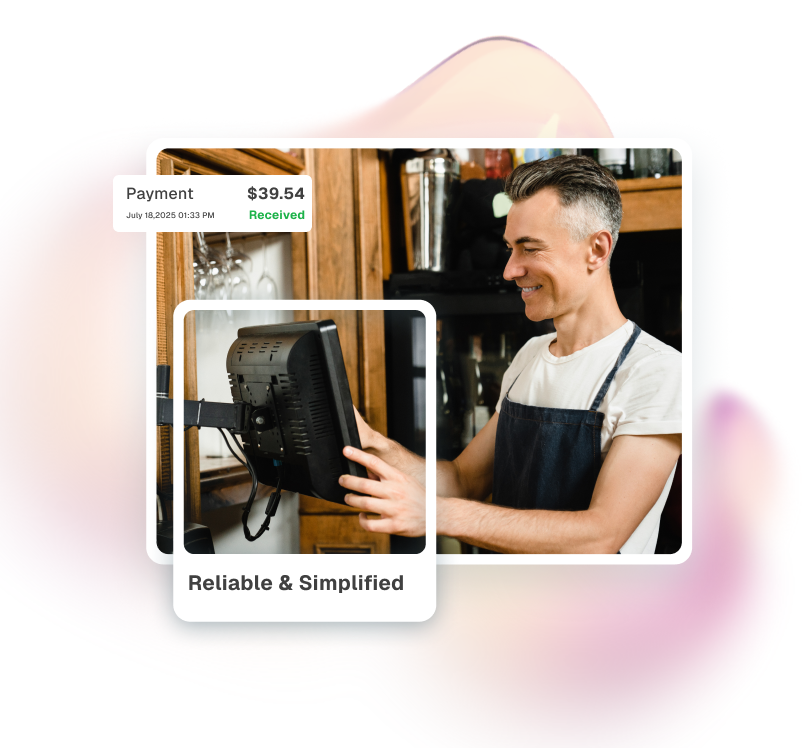
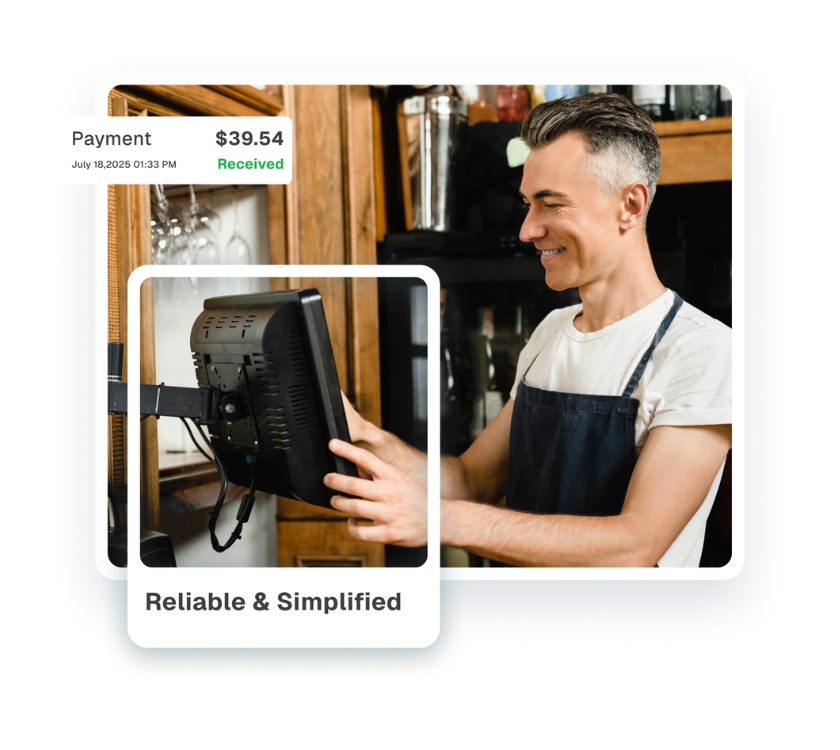
Fix React rendering crashes on missing DB data and remove conflicting CSS shadows

diff --git a/src/components/Home/ScrollSection.tsx b/src/components/Home/ScrollSection.tsx
@@ -156,18 +156,12 @@ const FeatureStrip: React.FC<{ feature: Feature; reverse: boolean; onCTA: () => 
     <div
       ref={ref}
       className={`flex flex-col gap-10 items-center py-8 lg:py-12 ${reverse ? 'lg:flex-row-reverse' : 'lg:flex-row'}`}
-      style={{
-        opacity: visible ? 1 : 0,
-        transform: visible ? 'translateY(0px)' : 'translateY(60px)',
-        transition: `opacity 0.8s ease-out, transform 0.8s ease-out`,
-        transitionDelay: visible ? '0ms' : '0ms',
-      }}
     >
       {/* ── Image ── */}
       <div className="w-full lg:w-1/2 flex-shrink-0"
         style={{
           opacity: visible ? 1 : 0,
-          transform: visible ? 'translateX(0px) scale(1)' : `translateX(${reverse ? '40px' : '-40px'}) scale(0.96)`,
+          transform: visible ? 'translateY(0px) translateX(0px) scale(1)' : `translateY(60px) translateX(${reverse ? '40px' : '-40px'}) scale(0.96)`,
           transition: 'opacity 0.9s ease-out, transform 0.9s ease-out',
           transitionDelay: visible ? '100ms' : '0ms',
         }}
@@ -193,24 +187,10 @@ const FeatureStrip: React.FC<{ feature: Feature; reverse: boolean; onCTA: () => 
             alt={feature.imageAlt}
             className={`relative w-full h-auto object-contain img-float-${index}`}
             style={{
-              mixBlendMode: 'multiply',
               ...(index === 4 || index === 5 ? {
                 border: '3px solid white',
                 borderRadius: '20px',
               } : {}),
-              filter: index === 0
-                ? 'drop-shadow(0 32px 48px rgba(249,110,77,0.18)) drop-shadow(0 8px 20px rgba(99,102,241,0.10))'
-                : index === 1
-                ? 'drop-shadow(0 24px 40px rgba(139,92,246,0.20)) drop-shadow(0 6px 16px rgba(139,92,246,0.10))'
-                : index === 2
-                ? 'drop-shadow(0 24px 40px rgba(236,72,153,0.18)) drop-shadow(0 6px 16px rgba(249,168,212,0.12))'
-                : index === 3
-                ? 'drop-shadow(0 24px 40px rgba(56,189,248,0.22)) drop-shadow(0 6px 16px rgba(14,165,233,0.14))'
-                : index === 4
-                ? 'drop-shadow(0 24px 40px rgba(234,179,8,0.20)) drop-shadow(0 6px 16px rgba(234,179,8,0.12))'
-                : index === 5
-                ? 'drop-shadow(0 24px 40px rgba(239,68,68,0.20)) drop-shadow(0 6px 16px rgba(239,68,68,0.12))'
-                : undefined,
             }}
           />
         </div>
@@ -221,7 +201,7 @@ const FeatureStrip: React.FC<{ feature: Feature; reverse: boolean; onCTA: () => 
         className={`w-full lg:w-1/2 ${reverse ? 'lg:pr-8 xl:pr-16' : 'lg:pl-8 xl:pl-16'}`}
         style={{
           opacity: visible ? 1 : 0,
-          transform: visible ? 'translateX(0px)' : `translateX(${reverse ? '-40px' : '40px'})`,
+          transform: visible ? 'translateY(0px) translateX(0px)' : `translateY(60px) translateX(${reverse ? '-40px' : '40px'})`,
           transition: 'opacity 0.9s ease-out, transform 0.9s ease-out',
           transitionDelay: visible ? '200ms' : '0ms',
         }}

diff --git a/src/components/pages/Products.tsx b/src/components/pages/Products.tsx
@@ -108,9 +108,9 @@ const DynamicProductPage: React.FC = () => {
     return {
       heroTitle: productData.scrollSection.heroTitle,
       heroSubtitle: productData.scrollSection.heroSubtitle,
-      sections: productData.scrollSection.sections.map(section => ({
+      sections: (productData.scrollSection.sections || []).map(section => ({
         ...section,
-        icon: getIcon(section.icon)
+        icon: getIcon(section.icon || '')
       }))
     };
   };
@@ -140,11 +140,13 @@ const DynamicProductPage: React.FC = () => {
         backgroundImage={productData.heroSection.backgroundImage}
       />
 
-      <NumberSpeaks
-        title={productData.numberSpeaks.title}
-        subtitle={productData.numberSpeaks.subtitle}
-        stats={productData.numberSpeaks.stats}
-      />
+      {productData.numberSpeaks && (
+        <NumberSpeaks
+          title={productData.numberSpeaks.title}
+          subtitle={productData.numberSpeaks.subtitle}
+          stats={productData.numberSpeaks.stats}
+        />
+      )}
 
       {/* Conditionally render ScrollSection only if product has scroll section data */}
       {scrollSectionData && (
@@ -192,9 +194,11 @@ const DynamicProductPage: React.FC = () => {
         items={sharedData?.testimonials?.items}
       />
 
-      <FAQSection
-        faqs={productData.faqSection.faqs?.slice(0, 5)}
-      />
+      {productData.faqSection && (
+        <FAQSection
+          faqs={productData.faqSection.faqs?.slice(0, 5)}
+        />
+      )}
       <Contact
         title={sharedData?.cta?.title}
         description={sharedData?.cta?.description}